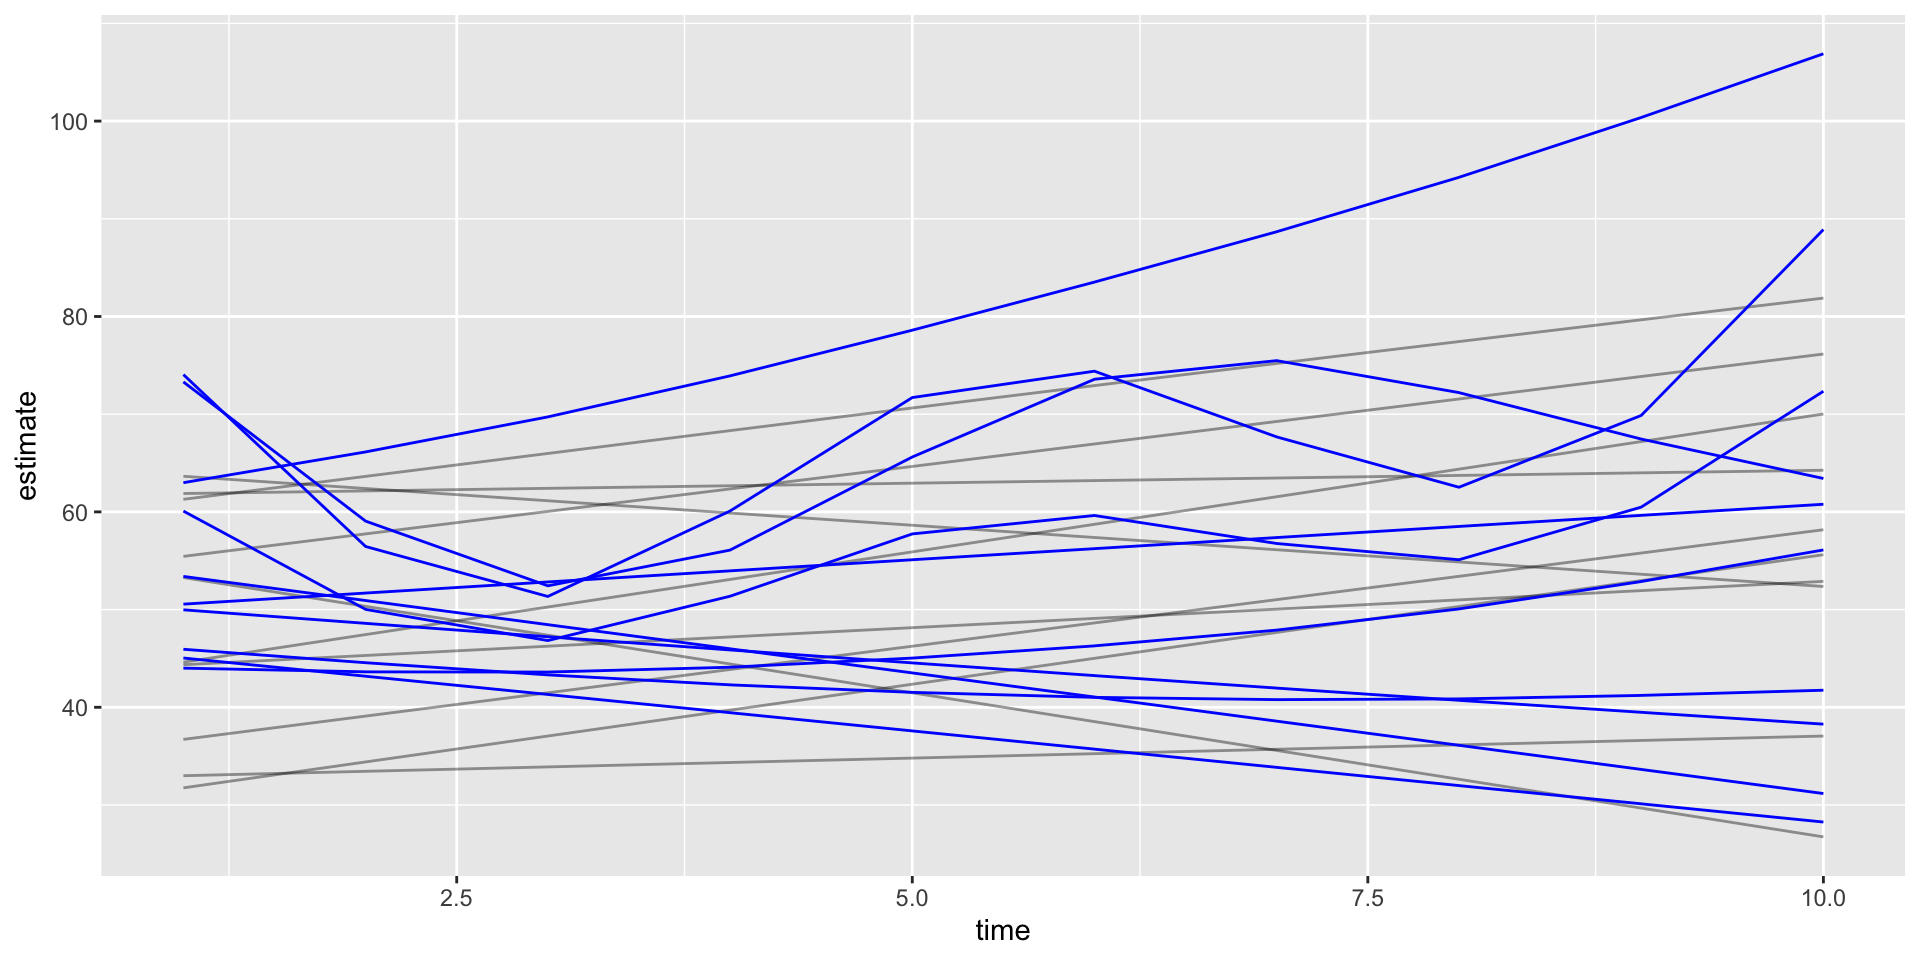
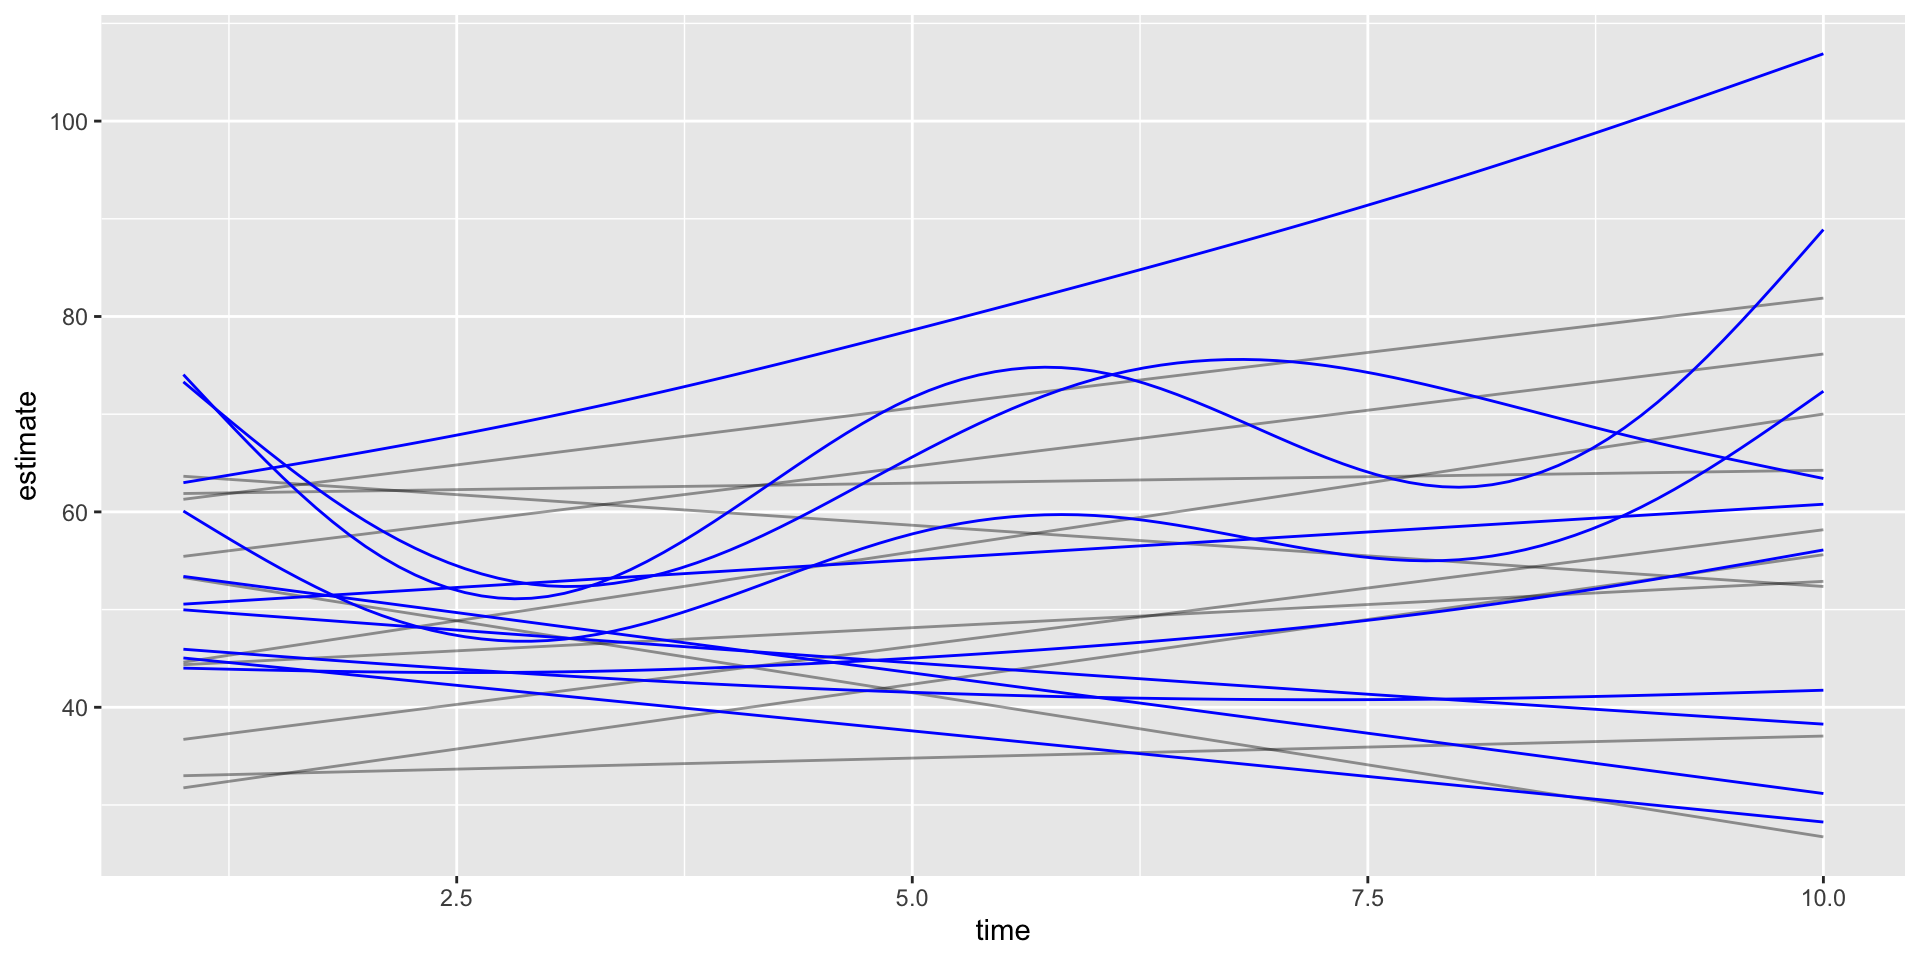
gam gammy gam

diff --git a/_site/gams-4a.html b/_site/gams-4a.html
@@ -6275,7 +6275,7 @@ GCV = 45.318  Scale est. = 33.957    n = 200</code></pre>
 <details>
 <summary>Code</summary>
 <div class="sourceCode cell-code" id="cb105"><pre class="sourceCode numberSource r number-lines code-with-copy"><code class="sourceCode r"><span id="cb105-1"><a href="#cb105-1"></a>pred10_i <span class="ot">&lt;-</span> <span class="fu">predictions</span>(gam10, <span class="at">newdata =</span> <span class="fu">datagrid</span>(<span class="at">id =</span> unique, <span class="at">time =</span> <span class="fu">seq</span>(<span class="dv">1</span>, <span class="dv">10</span>, <span class="at">length.out =</span> <span class="dv">100</span>)))</span>
-<span id="cb105-2"><a href="#cb105-2"></a>pred10_g <span class="ot">&lt;-</span> <span class="fu">predictions</span>(gam10, <span class="at">newdata =</span> <span class="fu">datagrid</span>(<span class="at">id =</span> unique, <span class="at">time =</span> <span class="dv">1</span><span class="sc">:</span><span class="dv">10</span>), <span class="at">by =</span> <span class="st">"time"</span>)</span>
+<span id="cb105-2"><a href="#cb105-2"></a>pred10_g <span class="ot">&lt;-</span> <span class="fu">predictions</span>(gam10, <span class="at">newdata =</span> <span class="fu">datagrid</span>(<span class="at">id =</span> unique, <span class="at">time =</span> <span class="fu">seq</span>(<span class="dv">1</span>, <span class="dv">10</span>, <span class="at">length.out =</span> <span class="dv">100</span>)), <span class="at">by =</span> <span class="st">"time"</span>)</span>
 <span id="cb105-3"><a href="#cb105-3"></a></span>
 <span id="cb105-4"><a href="#cb105-4"></a><span class="fu">ggplot</span>() <span class="sc">+</span></span>
 <span id="cb105-5"><a href="#cb105-5"></a>  <span class="fu">geom_line</span>(<span class="at">data =</span> pred10_i, <span class="fu">aes</span>(<span class="at">x =</span> time, <span class="at">y =</span> estimate, <span class="at">group =</span> id), </span>
@@ -6291,12 +6291,12 @@ GCV = 45.318  Scale est. = 33.957    n = 200</code></pre>
 <div class="cell">
 <details>
 <summary>Code</summary>
-<div class="sourceCode cell-code" id="cb106"><pre class="sourceCode numberSource r number-lines code-with-copy"><code class="sourceCode r"><span id="cb106-1"><a href="#cb106-1"></a>pred10_s <span class="ot">&lt;-</span> <span class="fu">predictions</span>(gam10, <span class="at">newdata =</span> <span class="fu">datagrid</span>(<span class="at">id =</span> <span class="fu">c</span>(<span class="dv">1</span><span class="sc">:</span><span class="dv">10</span>), <span class="at">time =</span> <span class="fu">seq</span>(<span class="dv">1</span>, <span class="dv">10</span>, <span class="at">length.out =</span> <span class="dv">100</span>)))</span>
-<span id="cb106-2"><a href="#cb106-2"></a>pred10_w <span class="ot">&lt;-</span> <span class="fu">predictions</span>(gam10, <span class="at">newdata =</span> <span class="fu">datagrid</span>(<span class="at">id =</span> <span class="fu">c</span>(<span class="dv">11</span><span class="sc">:</span><span class="dv">20</span>), <span class="at">time =</span> <span class="dv">1</span><span class="sc">:</span><span class="dv">10</span>))</span>
+<div class="sourceCode cell-code" id="cb106"><pre class="sourceCode numberSource r number-lines code-with-copy"><code class="sourceCode r"><span id="cb106-1"><a href="#cb106-1"></a>pred10_s <span class="ot">&lt;-</span> <span class="fu">predictions</span>(gam10, <span class="at">newdata =</span> <span class="fu">datagrid</span>(<span class="at">id =</span> <span class="fu">factor</span>(<span class="dv">1</span><span class="sc">:</span><span class="dv">10</span>), <span class="at">time =</span> <span class="fu">seq</span>(<span class="dv">1</span>, <span class="dv">10</span>, <span class="at">length.out =</span> <span class="dv">100</span>)))</span>
+<span id="cb106-2"><a href="#cb106-2"></a>pred10_w <span class="ot">&lt;-</span> <span class="fu">predictions</span>(gam10, <span class="at">newdata =</span> <span class="fu">datagrid</span>(<span class="at">id =</span> <span class="fu">factor</span>(<span class="dv">11</span><span class="sc">:</span><span class="dv">20</span>), <span class="at">time =</span> <span class="fu">seq</span>(<span class="dv">1</span>, <span class="dv">10</span>, <span class="at">length.out =</span> <span class="dv">100</span>)))</span>
 <span id="cb106-3"><a href="#cb106-3"></a></span>
 <span id="cb106-4"><a href="#cb106-4"></a></span>
 <span id="cb106-5"><a href="#cb106-5"></a><span class="fu">ggplot</span>() <span class="sc">+</span></span>
-<span id="cb106-6"><a href="#cb106-6"></a>  <span class="fu">geom_line</span>(<span class="at">data =</span> pred10_s, <span class="fu">aes</span>(<span class="at">x =</span> time, <span class="at">y =</span> estimate, <span class="at">group =</span> id), </span>
+<span id="cb106-6"><a href="#cb106-6"></a>  <span class="fu">geom_line</span>(<span class="at">data =</span> pred10_s, <span class="fu">aes</span>(time, estimate, <span class="at">group =</span> id), </span>
 <span id="cb106-7"><a href="#cb106-7"></a>            <span class="at">alpha =</span> <span class="fl">0.4</span>) <span class="sc">+</span></span>
 <span id="cb106-8"><a href="#cb106-8"></a>  <span class="fu">geom_line</span>(<span class="at">data =</span> pred10_w, <span class="fu">aes</span>(<span class="at">x =</span> time, <span class="at">y =</span> estimate, <span class="at">group =</span> id), </span>
 <span id="cb106-9"><a href="#cb106-9"></a>            <span class="at">color =</span> <span class="st">"blue"</span>) </span></code><button title="Copy to Clipboard" class="code-copy-button"><i class="bi"></i></button></pre></div>
